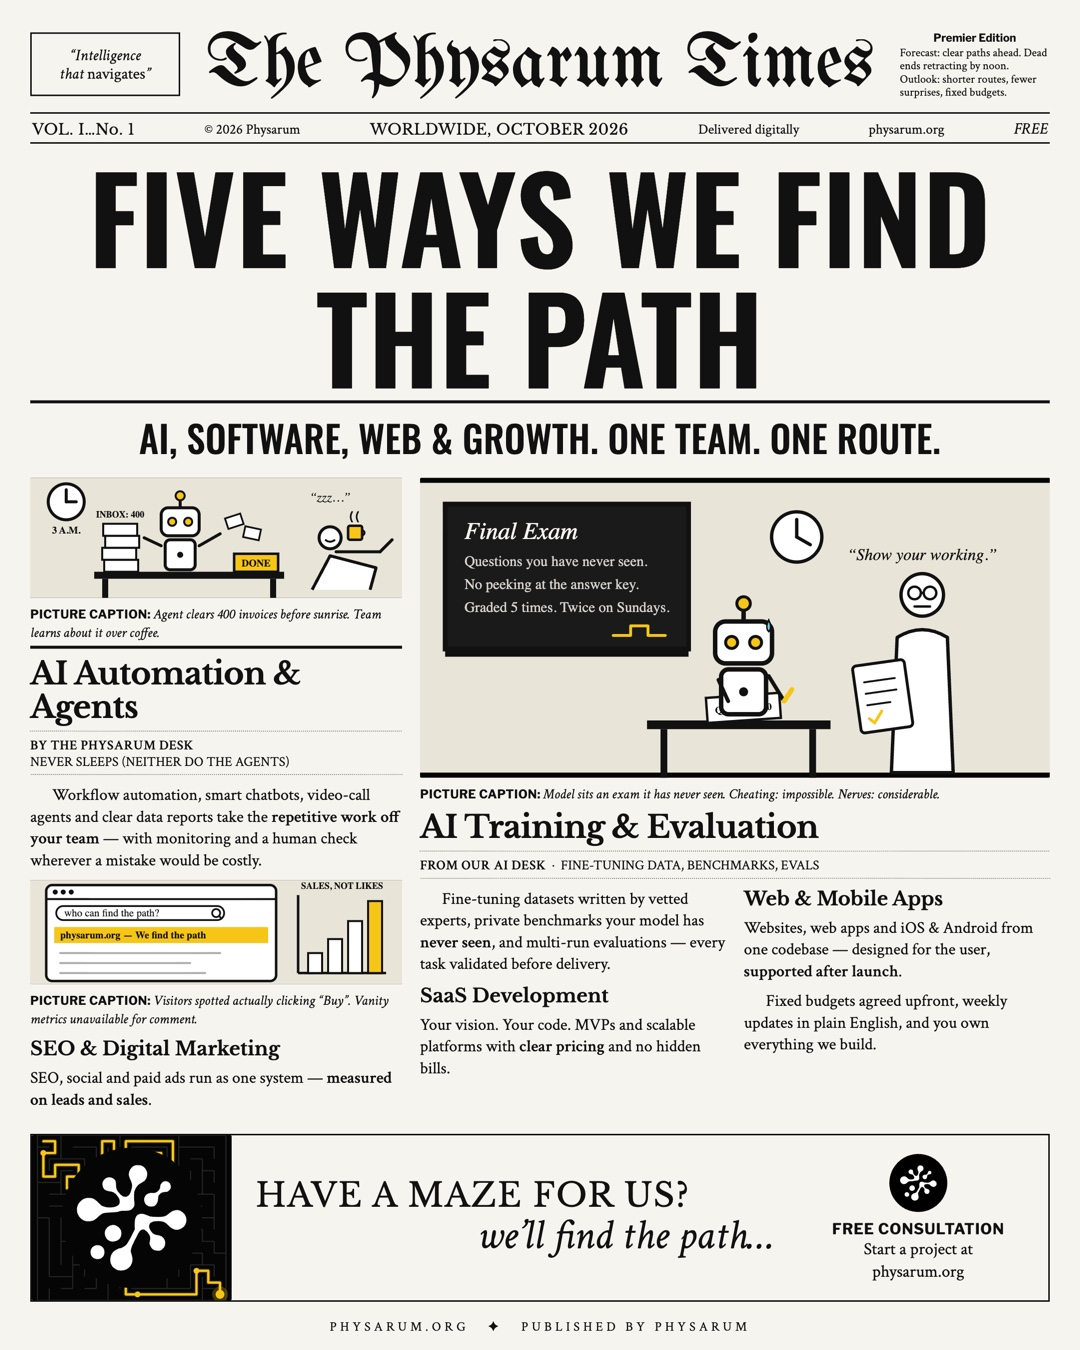
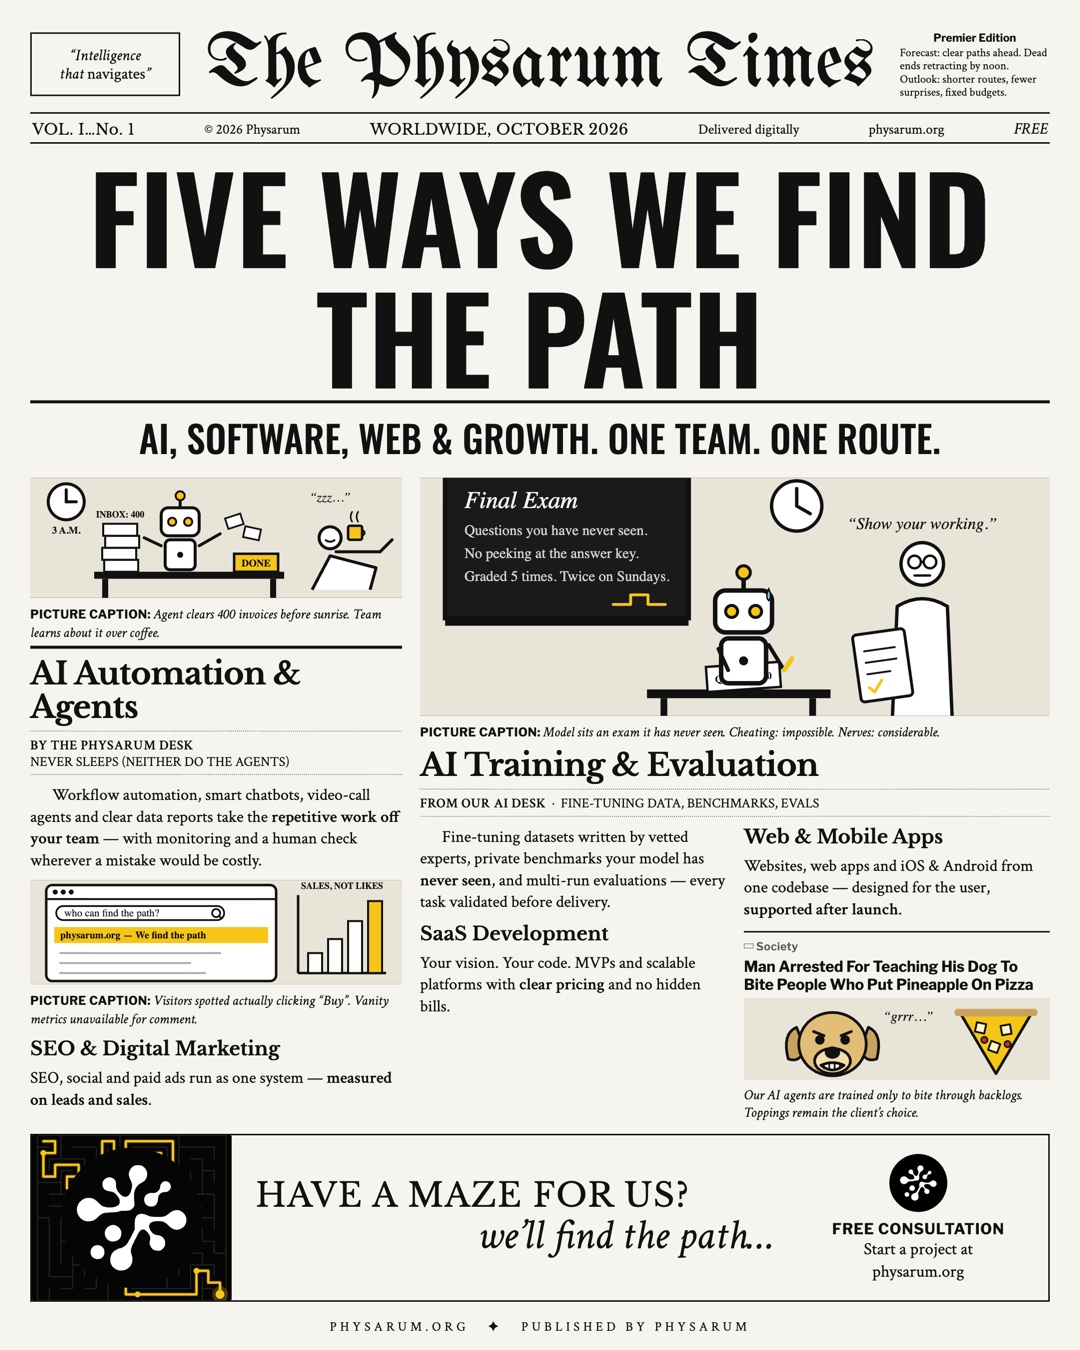
Newspaper post: add pineapple-pizza Society brief

Changed region(s): [[0.3667, 0.3422, 0.9778, 0.84]]

diff --git a/marketing/newspaper-services/index.html b/marketing/newspaper-services/index.html
@@ -49,6 +49,10 @@
   p.body.ni { text-indent: 0; }
   .cols { display: grid; grid-template-columns: 1fr 1fr; gap: 18px; }
   .hl { background: linear-gradient(transparent 58%, rgba(245, 197, 24, 0.55) 58%); }
+  .society { margin-top: 12px; border-top: 1.5px solid var(--rule); padding-top: 6px; }
+  .society .tag { font-family: "Libre Franklin", sans-serif; font-weight: 600; font-size: 11px; color: #555; letter-spacing: 0.3px; }
+  .society h4 { font-family: "Libre Franklin", sans-serif; font-weight: 700; font-size: 15px; line-height: 1.18; margin-top: 4px; }
+  .society .brief { font-family: "Crimson Text", serif; font-style: italic; font-size: 14px; line-height: 1.25; margin-top: 5px; }
   /* Advert */
   .ad {
     position: absolute; left: 30px; right: 30px; bottom: 48px; height: 168px;
@@ -179,7 +183,7 @@
 
     <!-- Right column -->
     <div>
-      <div class="pic" style="height:300px"><svg id="hero" viewBox="0 0 652 300">
+      <div class="pic" style="height:238px"><svg id="hero" viewBox="0 0 652 300" preserveAspectRatio="xMidYMid slice">
   <rect width="652" height="300" fill="#e8e4d8"/><rect width="652" height="300" fill="url(#dots)"/>
   <!-- blackboard -->
   <rect x="26" y="22" width="252" height="150" fill="#1a1a1a" stroke="#111" stroke-width="5"/>
@@ -245,7 +249,36 @@
         <div>
           <h3 style="margin-top:8px">Web &amp; Mobile Apps</h3>
           <p class="body ni">Websites, web apps and iOS &amp; Android from one codebase — designed for the user, <b style="font-weight:600">supported after launch</b>.</p>
-          <p class="body">Fixed budgets agreed upfront, weekly updates in plain English, and you own everything we build.</p>
+          <div class="society">
+            <div class="tag">▭ Society</div>
+            <h4>Man Arrested For Teaching His Dog To Bite People Who Put Pineapple On Pizza</h4>
+            <div class="pic" style="height:82px;margin-top:6px"><svg viewBox="0 0 290 82" preserveAspectRatio="xMidYMid slice">
+              <rect width="290" height="82" fill="#e8e4d8"/>
+              <!-- dog -->
+              <g transform="translate(84 44)" stroke="#111" stroke-width="2.6" stroke-linejoin="round" stroke-linecap="round">
+                <path d="M-34 -14 q-14 6 -8 30 q10 4 16 -8z" fill="#c9a25e"/>
+                <path d="M34 -14 q14 6 8 30 q-10 4 -16 -8z" fill="#c9a25e"/>
+                <ellipse cx="0" cy="2" rx="32" ry="30" fill="#e2bd78"/>
+                <ellipse cx="0" cy="18" rx="17" ry="12" fill="#f3dcae"/>
+                <path d="M-18 -10 l10 4 M18 -10 l-10 4" fill="none"/>
+                <circle cx="-12" cy="-2" r="3.2" fill="#111"/><circle cx="12" cy="-2" r="3.2" fill="#111"/>
+                <ellipse cx="0" cy="10" rx="6" ry="4.5" fill="#111"/>
+                <path d="M-11 22 q11 -5 22 0 q-11 9 -22 0z" fill="#fff"/>
+                <path d="M-8 21 v4 M-3 20 v5 M2 20 v5 M7 21 v4" fill="none" stroke-width="1.6"/>
+              </g>
+              <text x="132" y="24" font-family="Crimson Text" font-style="italic" font-size="13" fill="#111">“grrr…”</text>
+              <!-- pineapple pizza slice -->
+              <g transform="translate(206 18)" stroke="#111" stroke-width="2.6" stroke-linejoin="round">
+                <path d="M0 0 L66 0 L33 56 Z" fill="#f5c518"/>
+                <path d="M-3 -2 L69 -2" stroke-width="7" stroke-linecap="round" stroke="#c9a25e"/>
+                <rect x="14" y="8" width="9" height="9" fill="#fff6c2" stroke-width="1.8" transform="rotate(12 18 12)"/>
+                <rect x="38" y="10" width="9" height="9" fill="#fff6c2" stroke-width="1.8" transform="rotate(-10 42 14)"/>
+                <rect x="27" y="26" width="9" height="9" fill="#fff6c2" stroke-width="1.8" transform="rotate(20 31 30)"/>
+                <circle cx="44" cy="28" r="3" fill="#b5332e" stroke-width="1.4"/><circle cx="22" cy="24" r="3" fill="#b5332e" stroke-width="1.4"/>
+              </g>
+            </svg></div>
+            <p class="brief">Our AI agents are trained only to bite through backlogs. Toppings remain the client’s choice.</p>
+          </div>
         </div>
       </div>
     </div>
